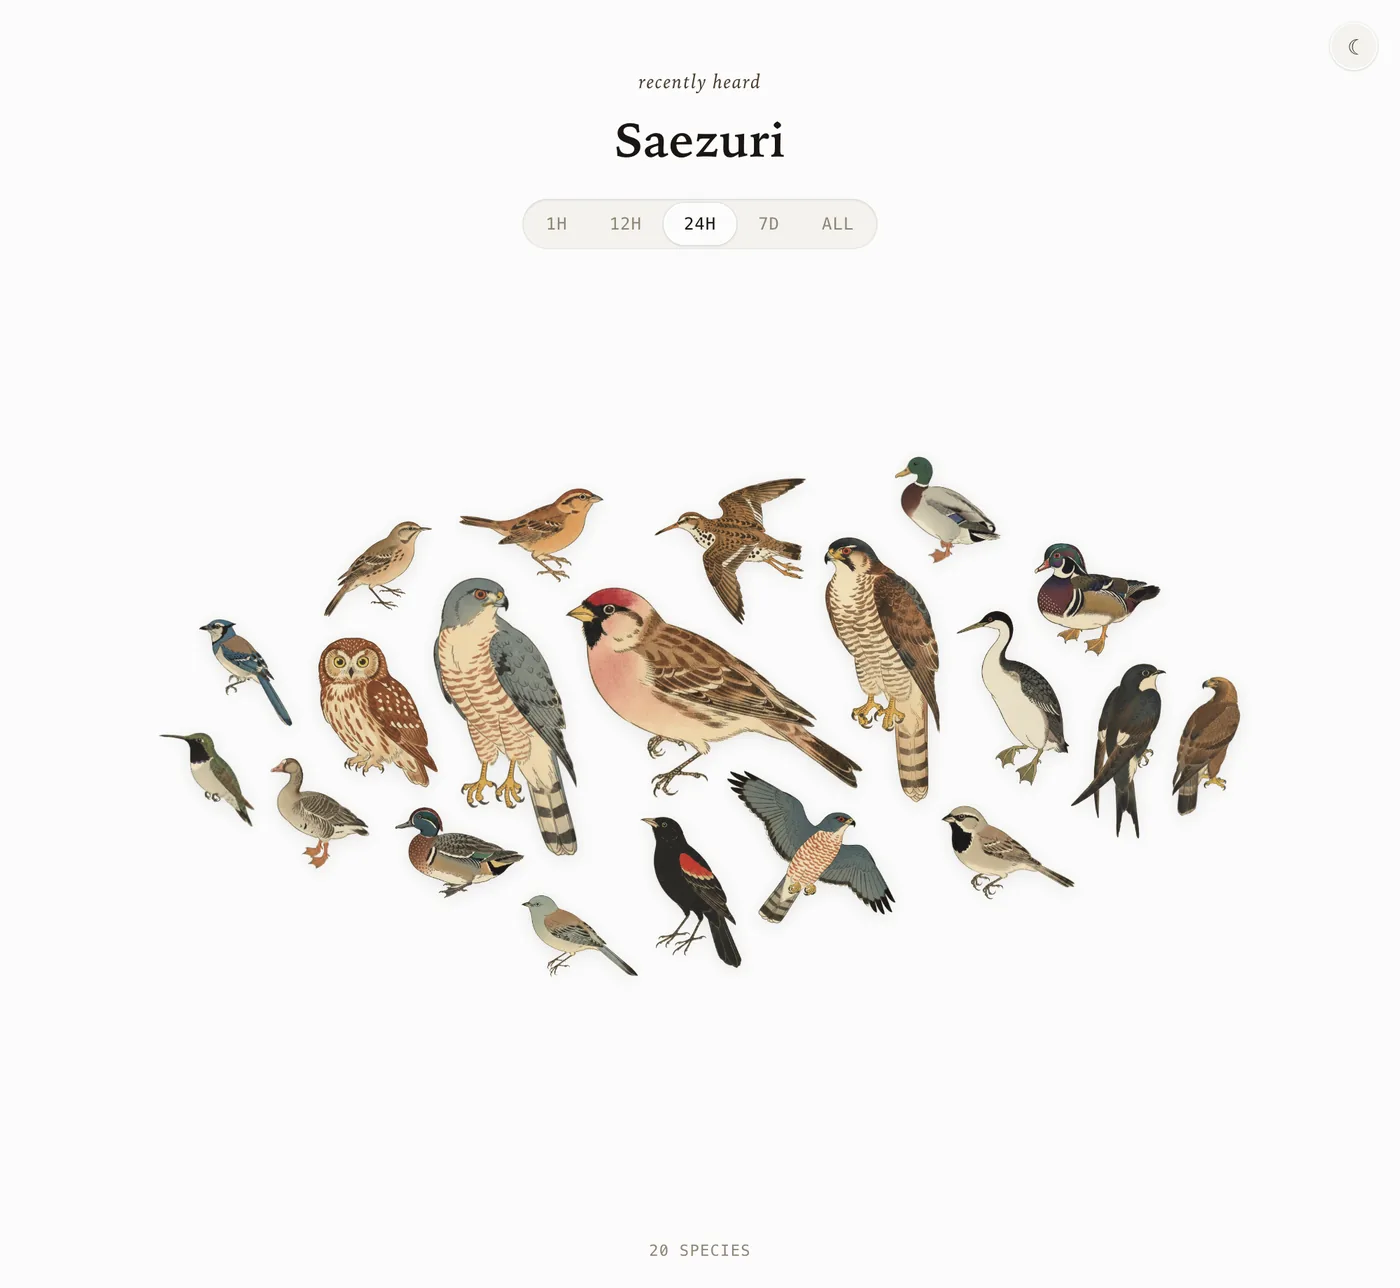
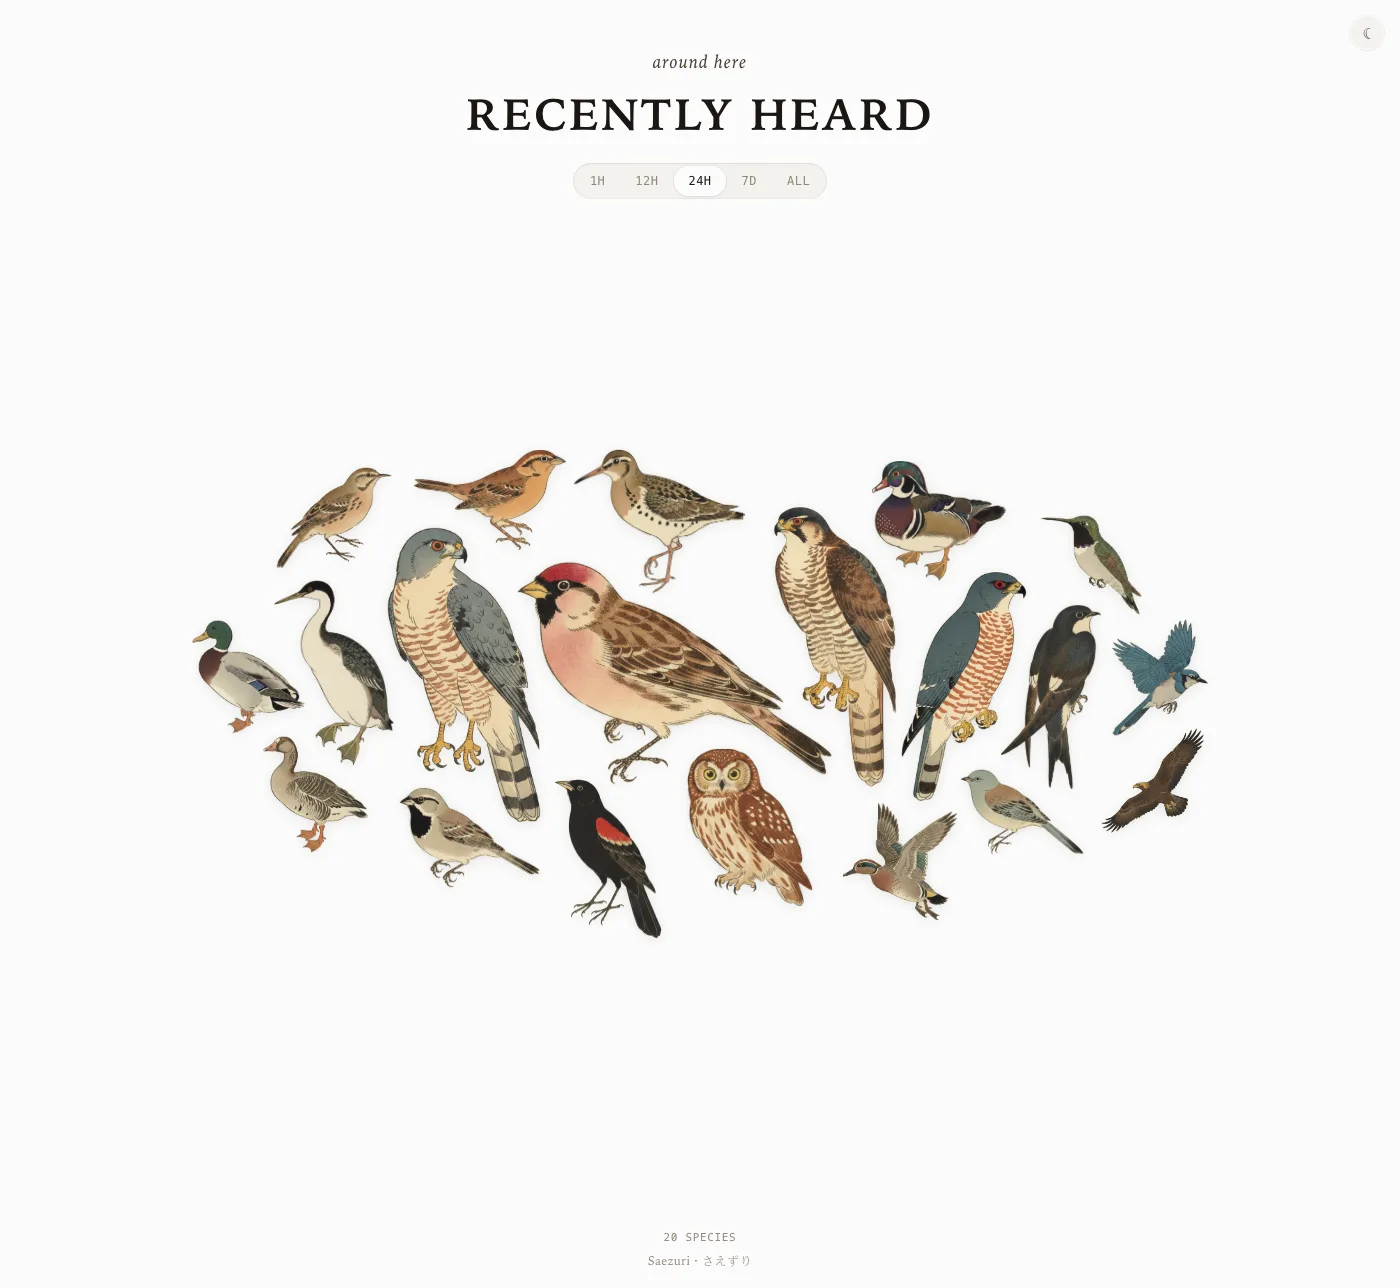
feat: update headings (closes #2)

diff --git a/site/src/styles/site.css b/site/src/styles/site.css
@@ -74,19 +74,72 @@ a {
   text-align: center;
   padding: 92px 0 8px;
 }
-.hero .eyebrow {
-  margin: 0 0 10px;
-  font-style: italic;
-  color: var(--ink-2);
-  letter-spacing: 0.06em;
-  font-size: clamp(13px, 1.4vw, 17px);
-}
 .hero h1 {
   margin: 0;
   font-weight: 700;
   font-size: clamp(44px, 8vw, 78px);
   letter-spacing: 0.01em;
   line-height: 1.02;
+}
+
+/* Title reveal: the romaji wordmark blur-crossfades to the kana さえずり (which
+   means "birdsong"), with a small gloss, on hover or keyboard focus. */
+.wordmark {
+  outline: none;
+  cursor: default;
+}
+.wm-stack {
+  display: inline-grid;
+}
+.wm-stack > span {
+  grid-area: 1 / 1;
+  transition:
+    opacity 450ms ease,
+    filter 450ms ease;
+}
+.wm-kana {
+  opacity: 0;
+  filter: blur(6px);
+  font-family: 'Hiragino Mincho ProN', 'Yu Mincho', var(--font-serif);
+}
+.wordmark:hover .wm-romaji,
+.wordmark:focus-within .wm-romaji {
+  opacity: 0;
+  filter: blur(6px);
+}
+.wordmark:hover .wm-kana,
+.wordmark:focus-within .wm-kana {
+  opacity: 1;
+  filter: blur(0);
+}
+.wm-gloss {
+  display: block;
+  margin-top: 8px;
+  font-family: var(--font-serif);
+  font-style: italic;
+  font-weight: 400;
+  font-size: clamp(15px, 2vw, 20px);
+  letter-spacing: 0.02em;
+  color: var(--ink-soft);
+  opacity: 0;
+  transition: opacity 450ms ease;
+}
+.wordmark:hover .wm-gloss,
+.wordmark:focus-within .wm-gloss {
+  opacity: 1;
+}
+@media (prefers-reduced-motion: reduce) {
+  .wm-stack > span,
+  .wm-gloss {
+    transition: none;
+  }
+  .wm-kana,
+  .wordmark:hover .wm-romaji,
+  .wordmark:focus-within .wm-romaji,
+  .wordmark:hover .wm-kana,
+  .wordmark:focus-within .wm-kana {
+    filter: none;
+  }
 }
 .hero .tagline {
   margin: 16px auto 0;

diff --git a/src/index.css b/src/index.css
@@ -43,7 +43,8 @@ body {
   margin: 0;
   font-weight: 700;
   font-size: clamp(26px, 3.4vw, 44px);
-  letter-spacing: 0.01em;
+  letter-spacing: 0.06em;
+  text-transform: uppercase;
   color: var(--ink);
 }
 .view {
@@ -193,6 +194,17 @@ body {
 }
 .status-warn {
   color: var(--live);
+}
+/* Quiet product signature in the footer — the app's home for the Japanese name.
+   Opts out of the status line's uppercasing so it reads "Saezuri", not "SAEZURI". */
+.wordmark {
+  display: block;
+  margin-top: 6px;
+  font-family: var(--font-serif);
+  text-transform: none;
+  letter-spacing: 0.04em;
+  font-size: 12px;
+  color: var(--ink-soft);
 }
 
 /* No-birds state: an empty-nest illustration sits where the collage would be,

diff --git a/src/App.tsx b/src/App.tsx
@@ -33,7 +33,7 @@ export default function App() {
         <ThemeToggle />
       </div>
 
-      <Header eyebrow="recently heard" title="Saezuri" />
+      <Header eyebrow="around here" title="recently heard" />
 
       <div className="controls">
         <WindowPicker value={windowPreset} onChange={setWindowPreset} />
@@ -56,6 +56,7 @@ export default function App() {
           truncated={!USE_MOCK && live.truncated}
           error={!USE_MOCK ? live.error : null}
         />
+        <span className="wordmark">Saezuri · さえずり</span>
       </footer>
     </div>
   )